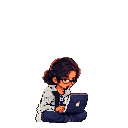
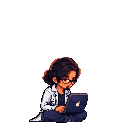
Redraw the lab coat with PixelLab: a real coat, not a pale hoodie
The recoloured hoodie still read as a hoodie and shimmered. The coat is
now drawn: PixelLab's Edit images turned his real frames into an open
white lab coat with collar and lapels over the dark tee, one request
per state so each animation's frames match. Each result is aligned back
onto the original frame and only clothing is taken from it (the
hoodie, the hood around his neck, and the coat's tail, held still
across the animation); face, glasses, goatee, hair, hands, laptop, mug
and jeans are his original pixels (checked: no skin pixel outside the
hoodie changes). The coat changes less between frames than the hoodie
it replaces.

Source of truth: art/ase/labcoat/<state>.aseprite, exported by
export_ase.sh into the hidden, prebuilt labcoat outfit; the recolour
experiments are gone from outfits.py.

diff --git a/art/scripts/outfits.py b/art/scripts/outfits.py
@@ -198,105 +198,6 @@ def recolour(frame, region, palette, lo, hi):
     return out
 
 
-# Where the lab coat's front opens, per state: the drawstring's usual column and top row in that
-# state's frames (the hoodie's zip line). Each frame follows the string when it is visible near
-# here and otherwise keeps the previous frame's place, so the coat's details never jump or flicker.
-COAT_FRONT = {
-    "asad-typing": (56, 96), "asad-idle": (55, 96), "asad-coffee": (57, 96),
-    "asad-happy": (53, 95), "asad-look": (57, 96), "asad-stretch": (64, 95),
-}
-# Frames where the body turns enough that the opening moves: the stretch's arms-up frames face us,
-# so the zip line is in the middle of the chest there.
-COAT_FRONT_FRAMES = {"asad-stretch": {2: (53, 92), 3: (53, 92), 4: (53, 92), 5: (53, 92)}}
-
-
-def coat_anchors(state, frames, regions):
-    base_x, base_y = COAT_FRONT[state]
-    out, prev = [], (base_x, base_y)
-    for i, (frame, region) in enumerate(zip(frames, regions)):
-        if i in COAT_FRONT_FRAMES.get(state, {}):
-            prev = COAT_FRONT_FRAMES[state][i]
-            out.append(prev)
-            continue
-        _, strings = hoodie_pixels(frame, region)
-        ys, xs = np.nonzero(strings)
-        near = [(x, y) for x, y in zip(xs, ys) if abs(x - base_x) <= 3]
-        if near:
-            x = min(x for x, _ in near)
-            prev = (x, min(y for xx, y in near if xx == x))
-        out.append(prev)
-    return out
-
-
-def coat_front(frame, coat, anchor, palette):
-    """An open lab coat over the dark tee: a strip of tee down the zip line that widens into a V at
-    the collar, soft grey lapel folds beside it, and a breast pocket with a pen. Only pixels that are
-    coat change, so hands, laptop, mug, face and hair stay."""
-    out = frame.copy()
-    a, top = anchor
-    tee = hexrgb(palette.get("tee", "#17121e"))
-    fold = hexrgb(palette.get("fold", "#8d8780"))
-    stitch = hexrgb(palette.get("stitch", "#a39d95"))
-    pen, cap = hexrgb(palette.get("pen", "#3f5a9c")), hexrgb(palette.get("penCap", "#d9dde6"))
-
-    def put(x, y, c):
-        if 0 <= x < 128 and 0 <= y < 128 and coat[y, x]:
-            out[y, x, :3] = c
-
-    # the V at the collar, narrowing to the strip
-    for k, y in enumerate(range(top - 5, top)):
-        for x in range(a - 3 + k // 2, a + 7 - k // 2):
-            put(x, y, tee)
-        put(a - 4 + k // 2, y, fold)
-        put(a + 7 - k // 2, y, fold)
-    # the open front down to the waist, with a fold line along each side
-    for y in range(top, top + 14):
-        for x in range(a, a + 4):
-            put(x, y, tee)
-        put(a - 1, y, fold)
-        put(a + 4, y, fold)
-    # breast pocket on the chest, a pen clipped in it
-    px, py = a - 11, top + 1
-    for x in range(px, px + 5):
-        put(x, py, stitch)
-    for y in range(py, py + 4):
-        put(px, y, stitch)
-        put(px + 4, y, stitch)
-    put(px + 2, py - 1, cap)
-    put(px + 2, py, pen)
-    put(px + 2, py + 1, pen)
-    return out
-
-
-def coat_tail(frame, palette):
-    """The lab coat's tail, spread on the floor behind him: from his waist down his back's left edge
-    it widens to about 7px at the floor. Drawn only on transparent pixels, so it sits behind him."""
-    out = frame.copy()
-    alpha = out[:, :, 3] > 0
-    ramp = [hexrgb(h) for h in palette["hoodie"]]
-    edge = hexrgb(palette.get("coatEdge", "#3a3238"))
-    rows = [y for y in range(98, 123) if alpha[y].any()]
-    if not rows:
-        return out
-    floor = max(rows)
-    for y in range(98, floor + 1):
-        xs = np.nonzero(alpha[y])[0]
-        if not len(xs):
-            continue
-        left = xs[0]
-        w = round(7 * (y - 98) / max(1, floor - 98))
-        for k in range(1, w + 1):
-            x = left - k
-            if x < 0 or alpha[y, x]:
-                continue
-            # the outermost pixel and the hem are the outline; the cloth shades darker toward the floor
-            if k == w or y == floor:
-                out[y, x] = (*edge, 255)
-            else:
-                out[y, x] = (*ramp_at(ramp, 0.85 - 0.45 * (y - 98) / max(1, floor - 98) - 0.08 * (k % 3 == 0)), 255)
-    return out
-
-
 def cloth_range():
     """Luma range of the classic hoodie across every frame, so all outfits share one mapping."""
     vals = []
@@ -323,20 +224,16 @@ def build():
         states = {}
         for state in STATES:
             src = SPRITES / f"{state}.png"
-            if meta.get("palette"):
+            if meta.get("prebuilt"):
+                # drawn rather than recoloured: art/ase/<id>/<state>.aseprite, exported by export_ase.sh
+                have = Image.open(folder / f"{state}.png").width // 128
+                if have != base["states"][state]["frames"]:
+                    raise ValueError(f"{folder.name}/{state}.png has {have} frames, the base has {base['states'][state]['frames']}")
+            elif meta.get("palette"):
                 sheet = np.array(Image.open(src).convert("RGBA"))
-                n = sheet.shape[1] // 128
-                source = [sheet[:, i * 128 : (i + 1) * 128].copy() for i in range(n)]
-                regions = [region_mask(state, i) for i in range(n)]
-                anchors = coat_anchors(state, source, regions) if meta.get("coat") else None
-                for i in range(n):
+                for i in range(sheet.shape[1] // 128):
                     sl = slice(i * 128, (i + 1) * 128)
-                    sheet[:, sl] = recolour(source[i], regions[i], meta["palette"], lo, hi)
-                    if meta.get("coat"):
-                        hood, strings = hoodie_pixels(source[i], regions[i])
-                        coat = sheet[:, sl].copy()
-                        coat = coat_front(coat, hood | strings, anchors[i], meta["palette"])
-                        sheet[:, sl] = coat_tail(coat, meta["palette"])
+                    sheet[:, sl] = recolour(sheet[:, sl], region_mask(state, i), meta["palette"], lo, hi)
                 Image.fromarray(sheet).save(folder / f"{state}.png", optimize=True)
             else:
                 shutil.copyfile(src, folder / f"{state}.png")

diff --git a/art/README.md b/art/README.md
@@ -73,14 +73,16 @@ pose moves the sleeves out of that region (the stretch's raised arms), `FRAME_RE
 for those frames, traced beside the hair, never over it. The hoodie's brightness range is measured
 on the original four states only, so a new state never shifts existing outfits.
 
-`labcoat/` is the Steins Gate lab coat: `"hidden": true` keeps it out of `index.json` (so the admin
-wardrobe and the API never offer it), and `"coat": true` turns the hoodie into an open lab coat:
-`coat_front` opens it over the dark tee along the zip line, with lapel folds and a breast pocket
-holding a pen, and `coat_tail` spreads its tail on the floor behind him (drawn only on transparent
-pixels). The opening is placed from `COAT_FRONT` (each state's usual drawstring column), follows the
-string where a frame shows it and holds its place where not, so nothing flickers; `COAT_FRONT_FRAMES`
-pins frames where the body turns (the stretch's arms-up frames face us). The room swaps it in
-while the Steins Gate worldline lasts; the saved outfit never changes.
+`labcoat/` is the Steins Gate lab coat. `"hidden": true` keeps it out of `index.json`, so the admin
+wardrobe and the API never offer it; the room swaps it in while the Steins Gate worldline lasts and the
+saved outfit never changes. It is `"prebuilt"`: drawn, not recoloured. Its source is
+`ase/labcoat/<state>.aseprite` (exported by `export_ase.sh`), one document for each of Asad's six states
+with the same frames and timing. Made October 2026 with PixelLab's *Edit images* on his real frames
+("an open white lab coat with collar and lapels over his dark tee"), one request per state so its
+frames match; each result was aligned back onto the original frame (PixelLab redraws a few pixels off)
+and only clothing was taken from it (hoodie pixels, the hood around his neck, and the coat's tail on
+the floor, kept still across each animation); face, glasses, goatee, hair, hands, laptop, mug and
+jeans are the original pixels. About 56 cents of PixelLab credit.
 
 To add one: make `site/public/art/outfits/<id>/outfit.json` (copy `forest/`; `palette.hoodie` is five
 colours from shadow to highlight, `rim` tints the lamp-lit edge, `drawstring` is light/dark), run
